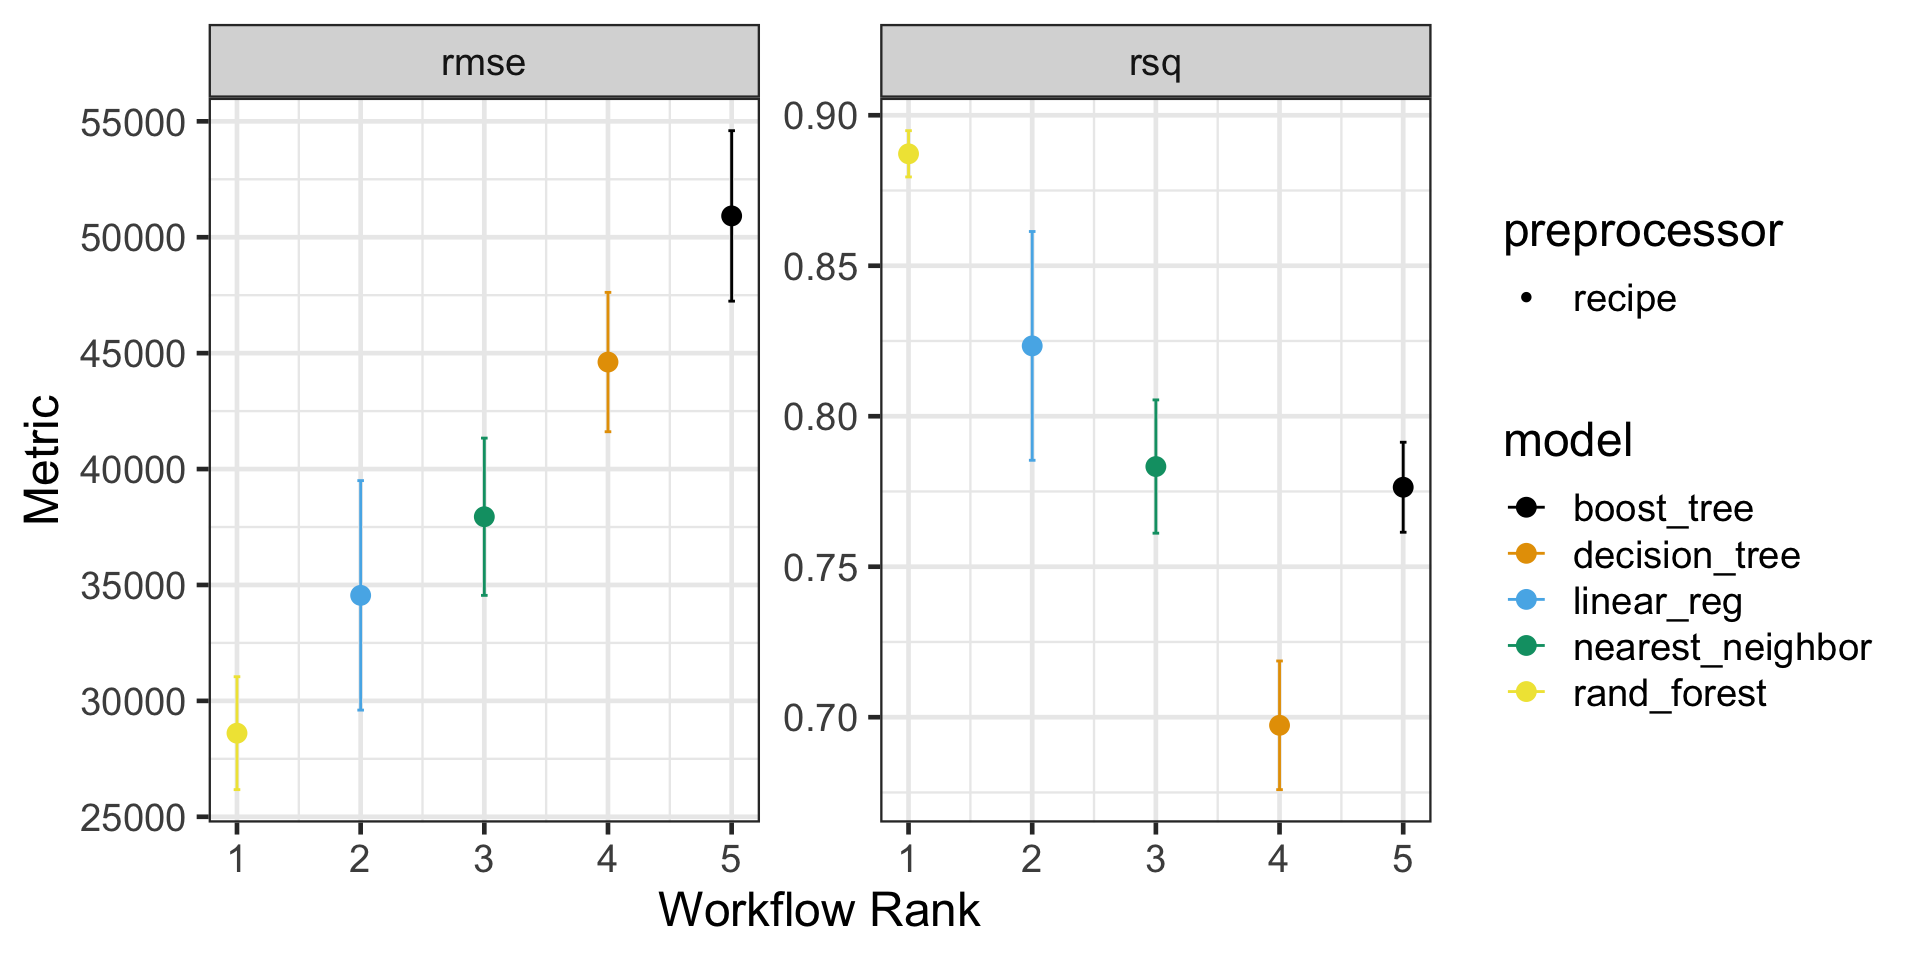
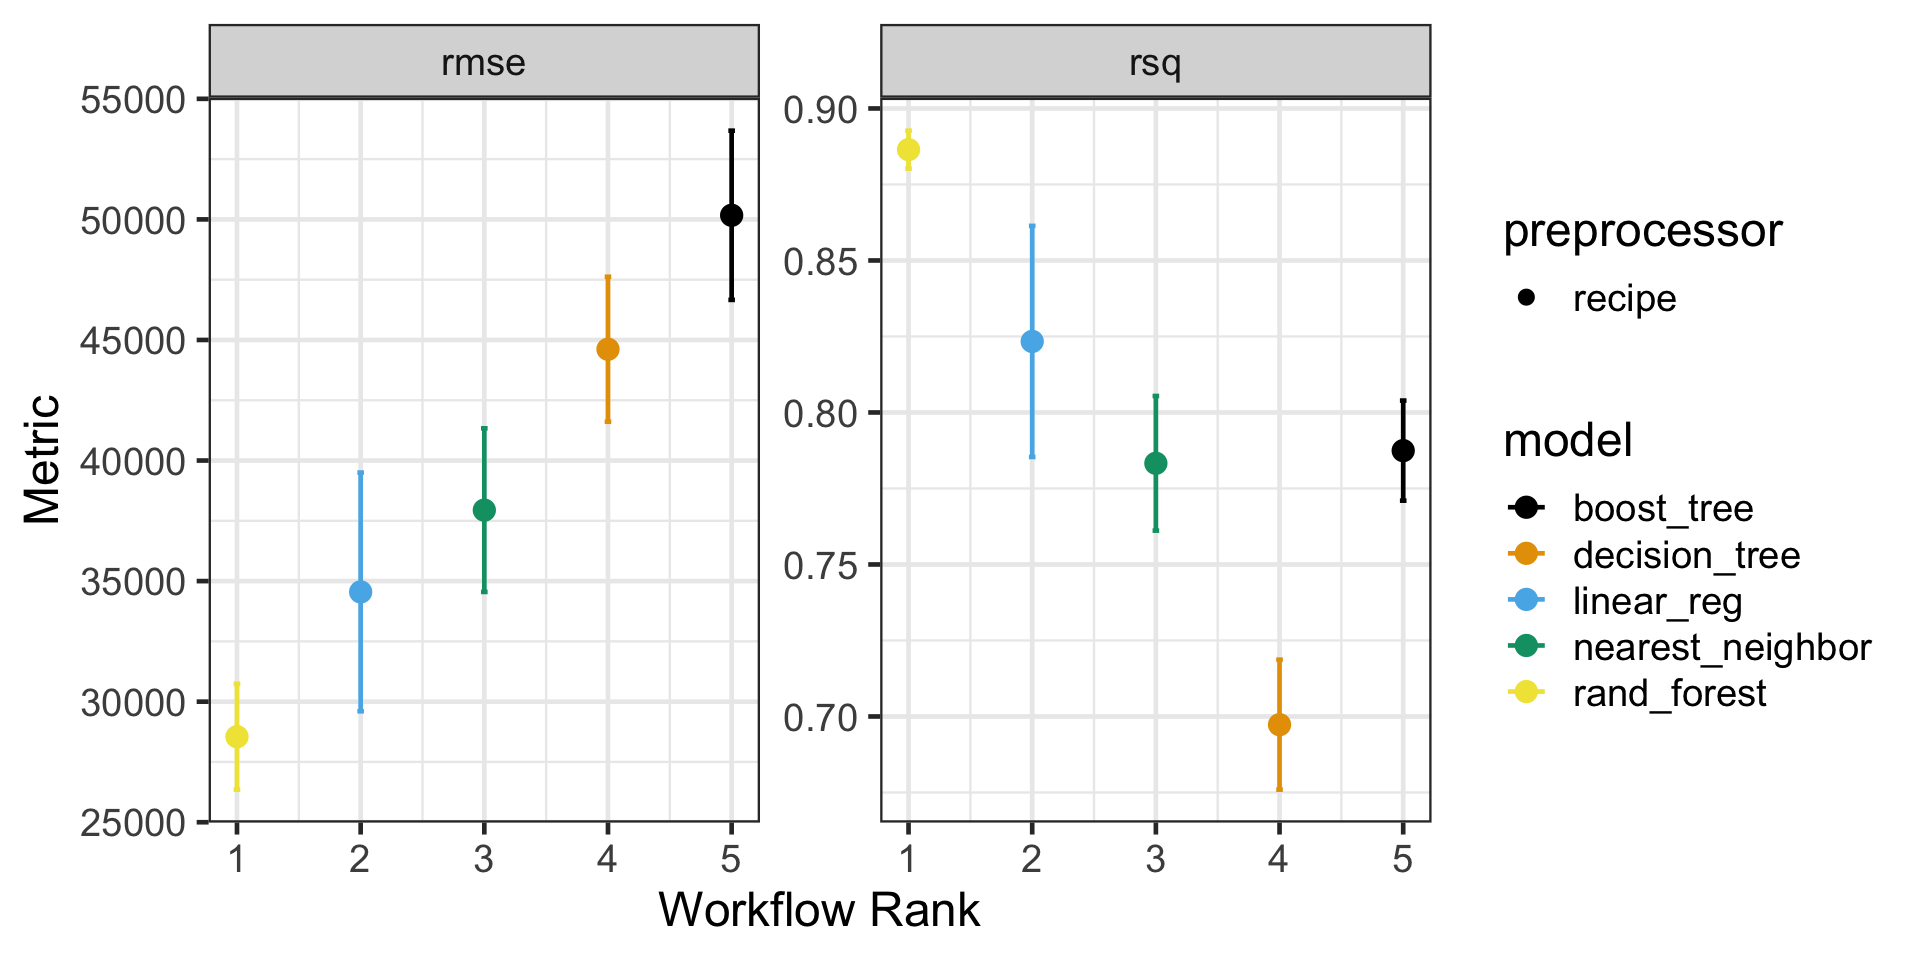
Don't refer to CV as fit and assess -- just assess

diff --git a/22d_IntroSlides.html b/22d_IntroSlides.html
@@ -11,7 +11,7 @@
   <meta name="generator" content="quarto-1.5.43">
 
   <meta name="author" content="Dr.&nbsp;Gilbert">
-  <meta name="dcterms.date" content="2024-11-19">
+  <meta name="dcterms.date" content="2026-03-24">
   <title>Beyond Linear Regression: Other Classes of Regressor</title>
   <meta name="apple-mobile-web-app-capable" content="yes">
   <meta name="apple-mobile-web-app-status-bar-style" content="black-translucent">
@@ -404,7 +404,7 @@ Dr.&nbsp;Gilbert
 </div>
 </div>
 
-  <p class="date">November 19, 2024</p>
+  <p class="date">March 24, 2026</p>
 </section>
 <section class="slide level2">
 
@@ -659,8 +659,8 @@ code.sourceCode {
 </div>
 </div>
 </section>
-<section id="fit-and-assess-the-workflow-set" class="slide level2">
-<h2>Fit and Assess the Workflow Set</h2>
+<section id="assess-the-workflow-set" class="slide level2">
+<h2>Assess the Workflow Set</h2>
 <div class="fragment">
 <p>Now that we’ve got our model specifications and recipes packages into our set of workflows, it’s time to assess them</p>
 </div>
@@ -735,10 +735,10 @@ code.sourceCode {
 <tr class="odd">
 <td style="text-align: right;">1</td>
 <td style="text-align: left;">rand_forest</td>
-<td style="text-align: right;">28606.09</td>
-<td style="text-align: right;">1480.621</td>
-<td style="text-align: right;">0.8871876</td>
-<td style="text-align: right;">0.0046712</td>
+<td style="text-align: right;">28546.42</td>
+<td style="text-align: right;">1334.232</td>
+<td style="text-align: right;">0.8864588</td>
+<td style="text-align: right;">0.0037896</td>
 </tr>
 <tr class="even">
 <td style="text-align: right;">2</td>
@@ -767,10 +767,10 @@ code.sourceCode {
 <tr class="odd">
 <td style="text-align: right;">5</td>
 <td style="text-align: left;">boost_tree</td>
-<td style="text-align: right;">50919.70</td>
-<td style="text-align: right;">2235.196</td>
-<td style="text-align: right;">0.7764053</td>
-<td style="text-align: right;">0.0090900</td>
+<td style="text-align: right;">50170.47</td>
+<td style="text-align: right;">2132.990</td>
+<td style="text-align: right;">0.7874528</td>
+<td style="text-align: right;">0.0100050</td>
 </tr>
 </tbody>
 </table>